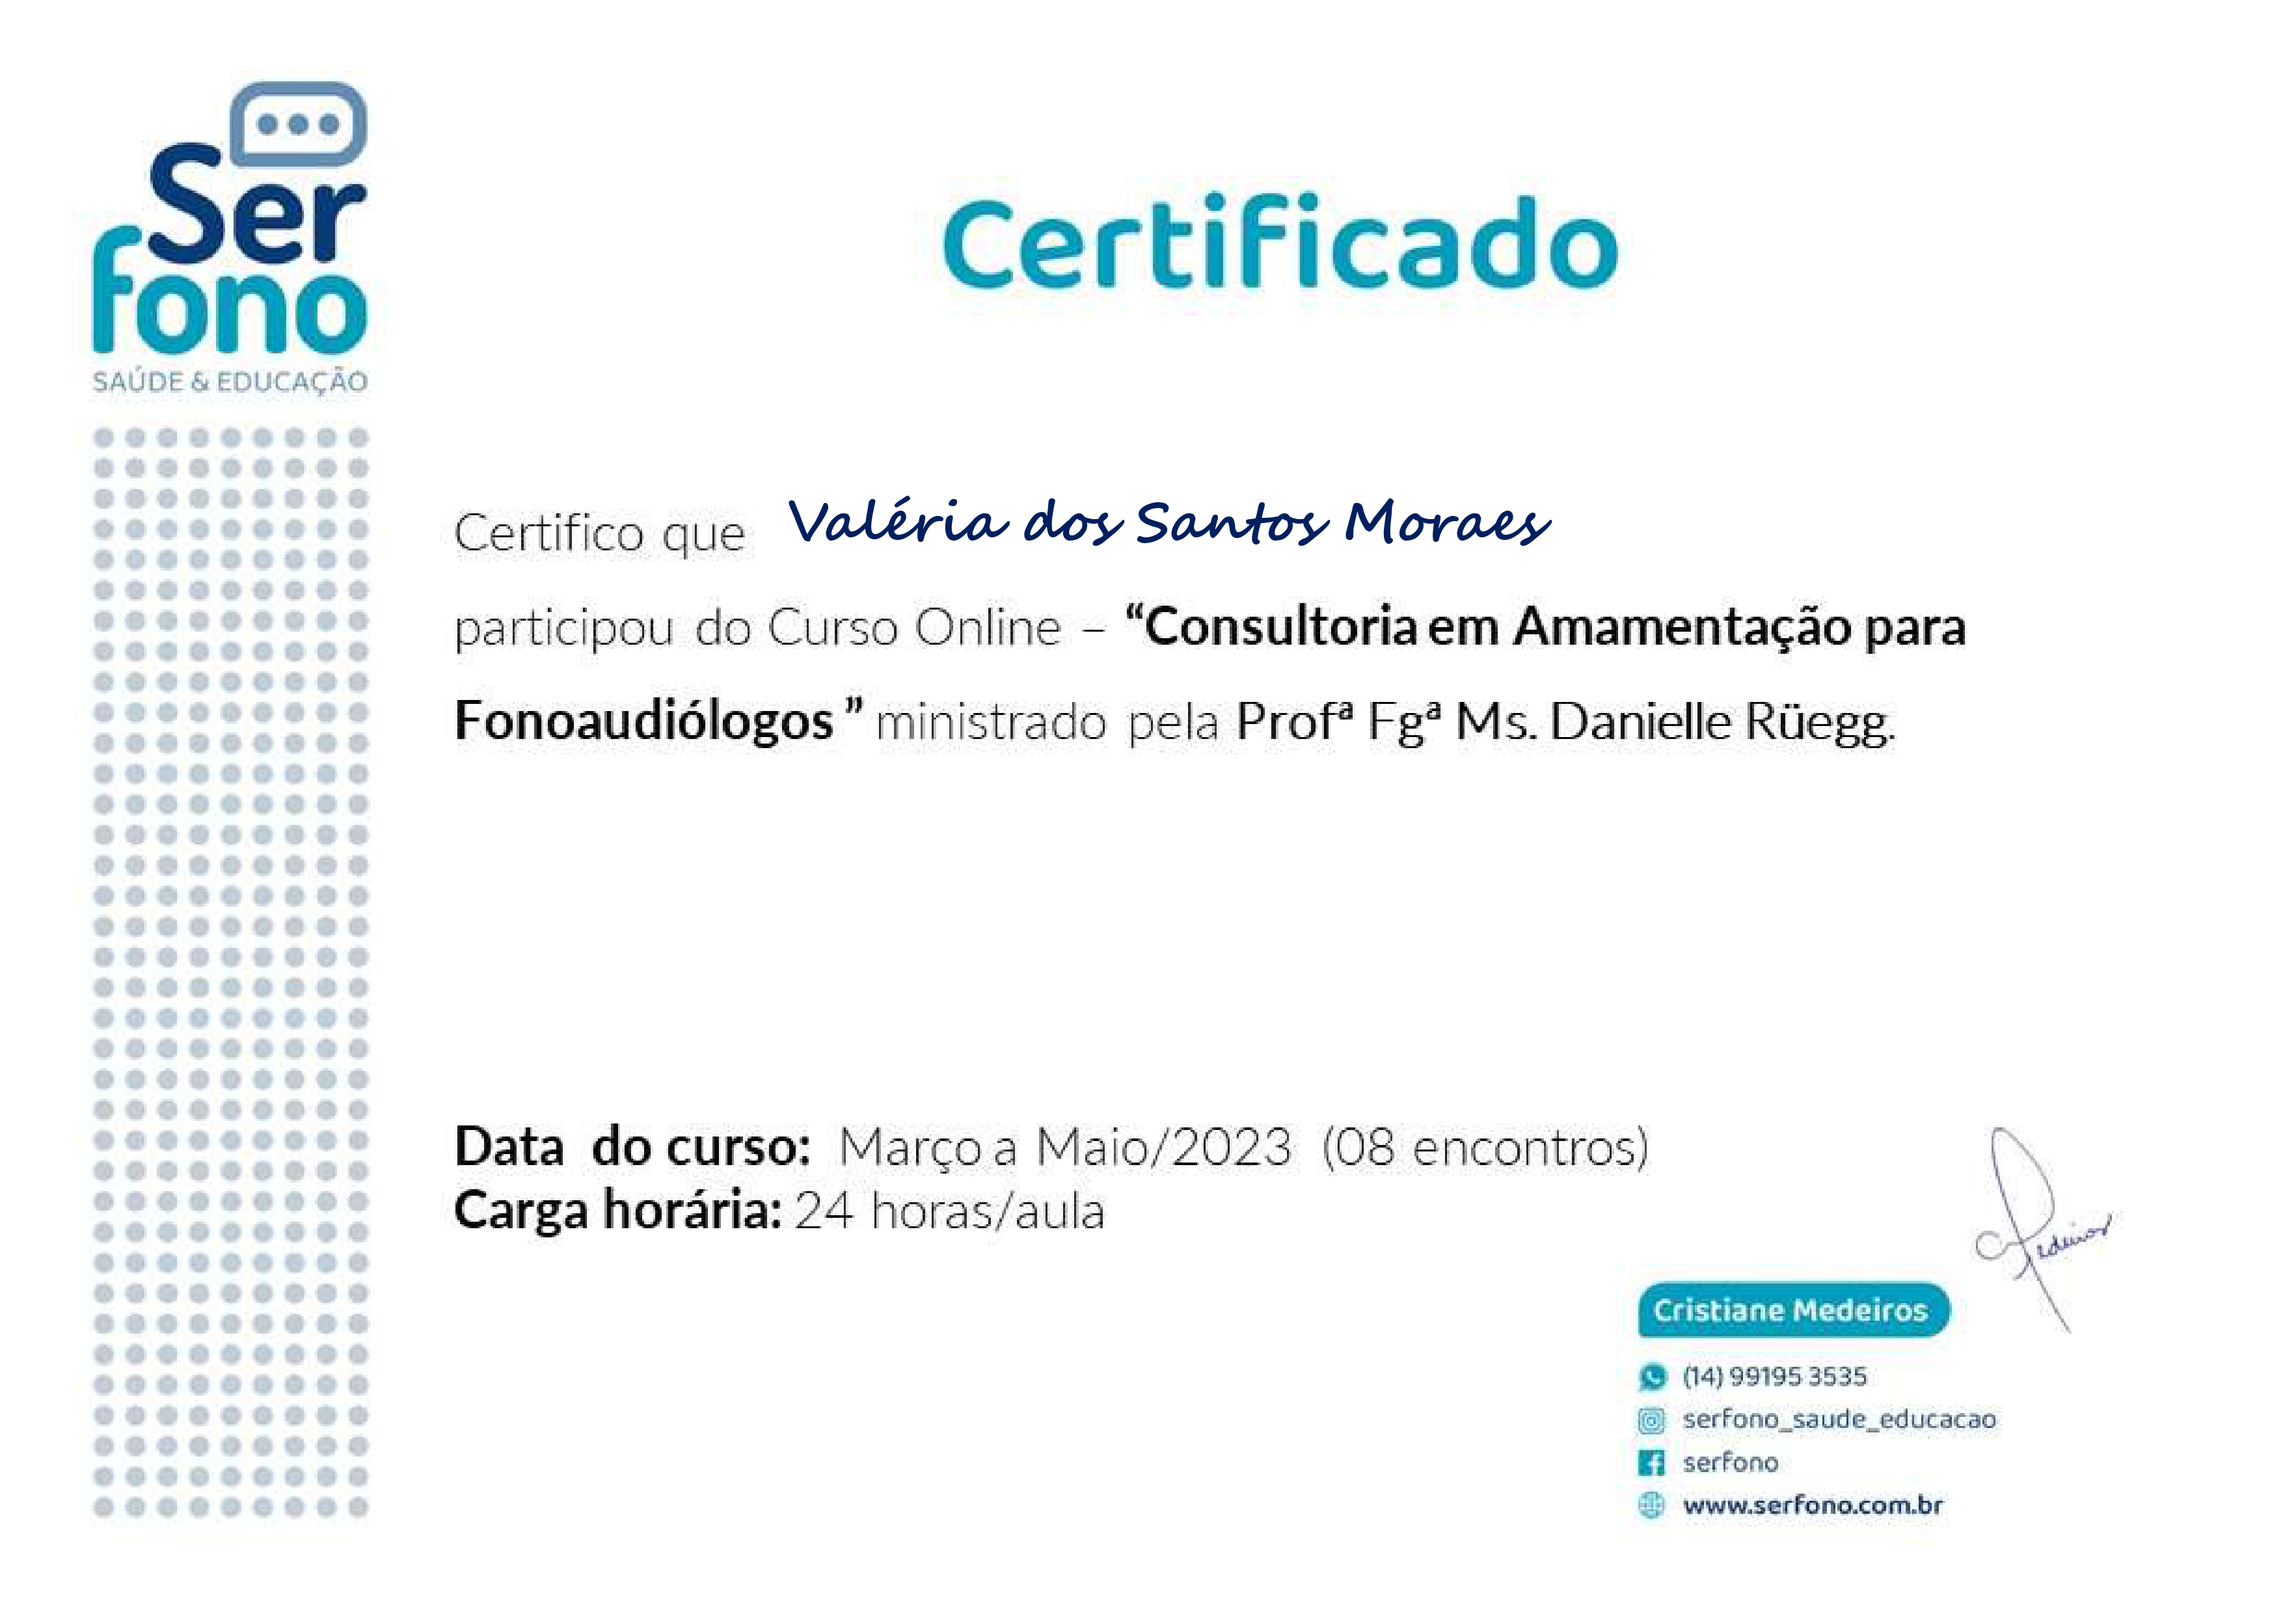
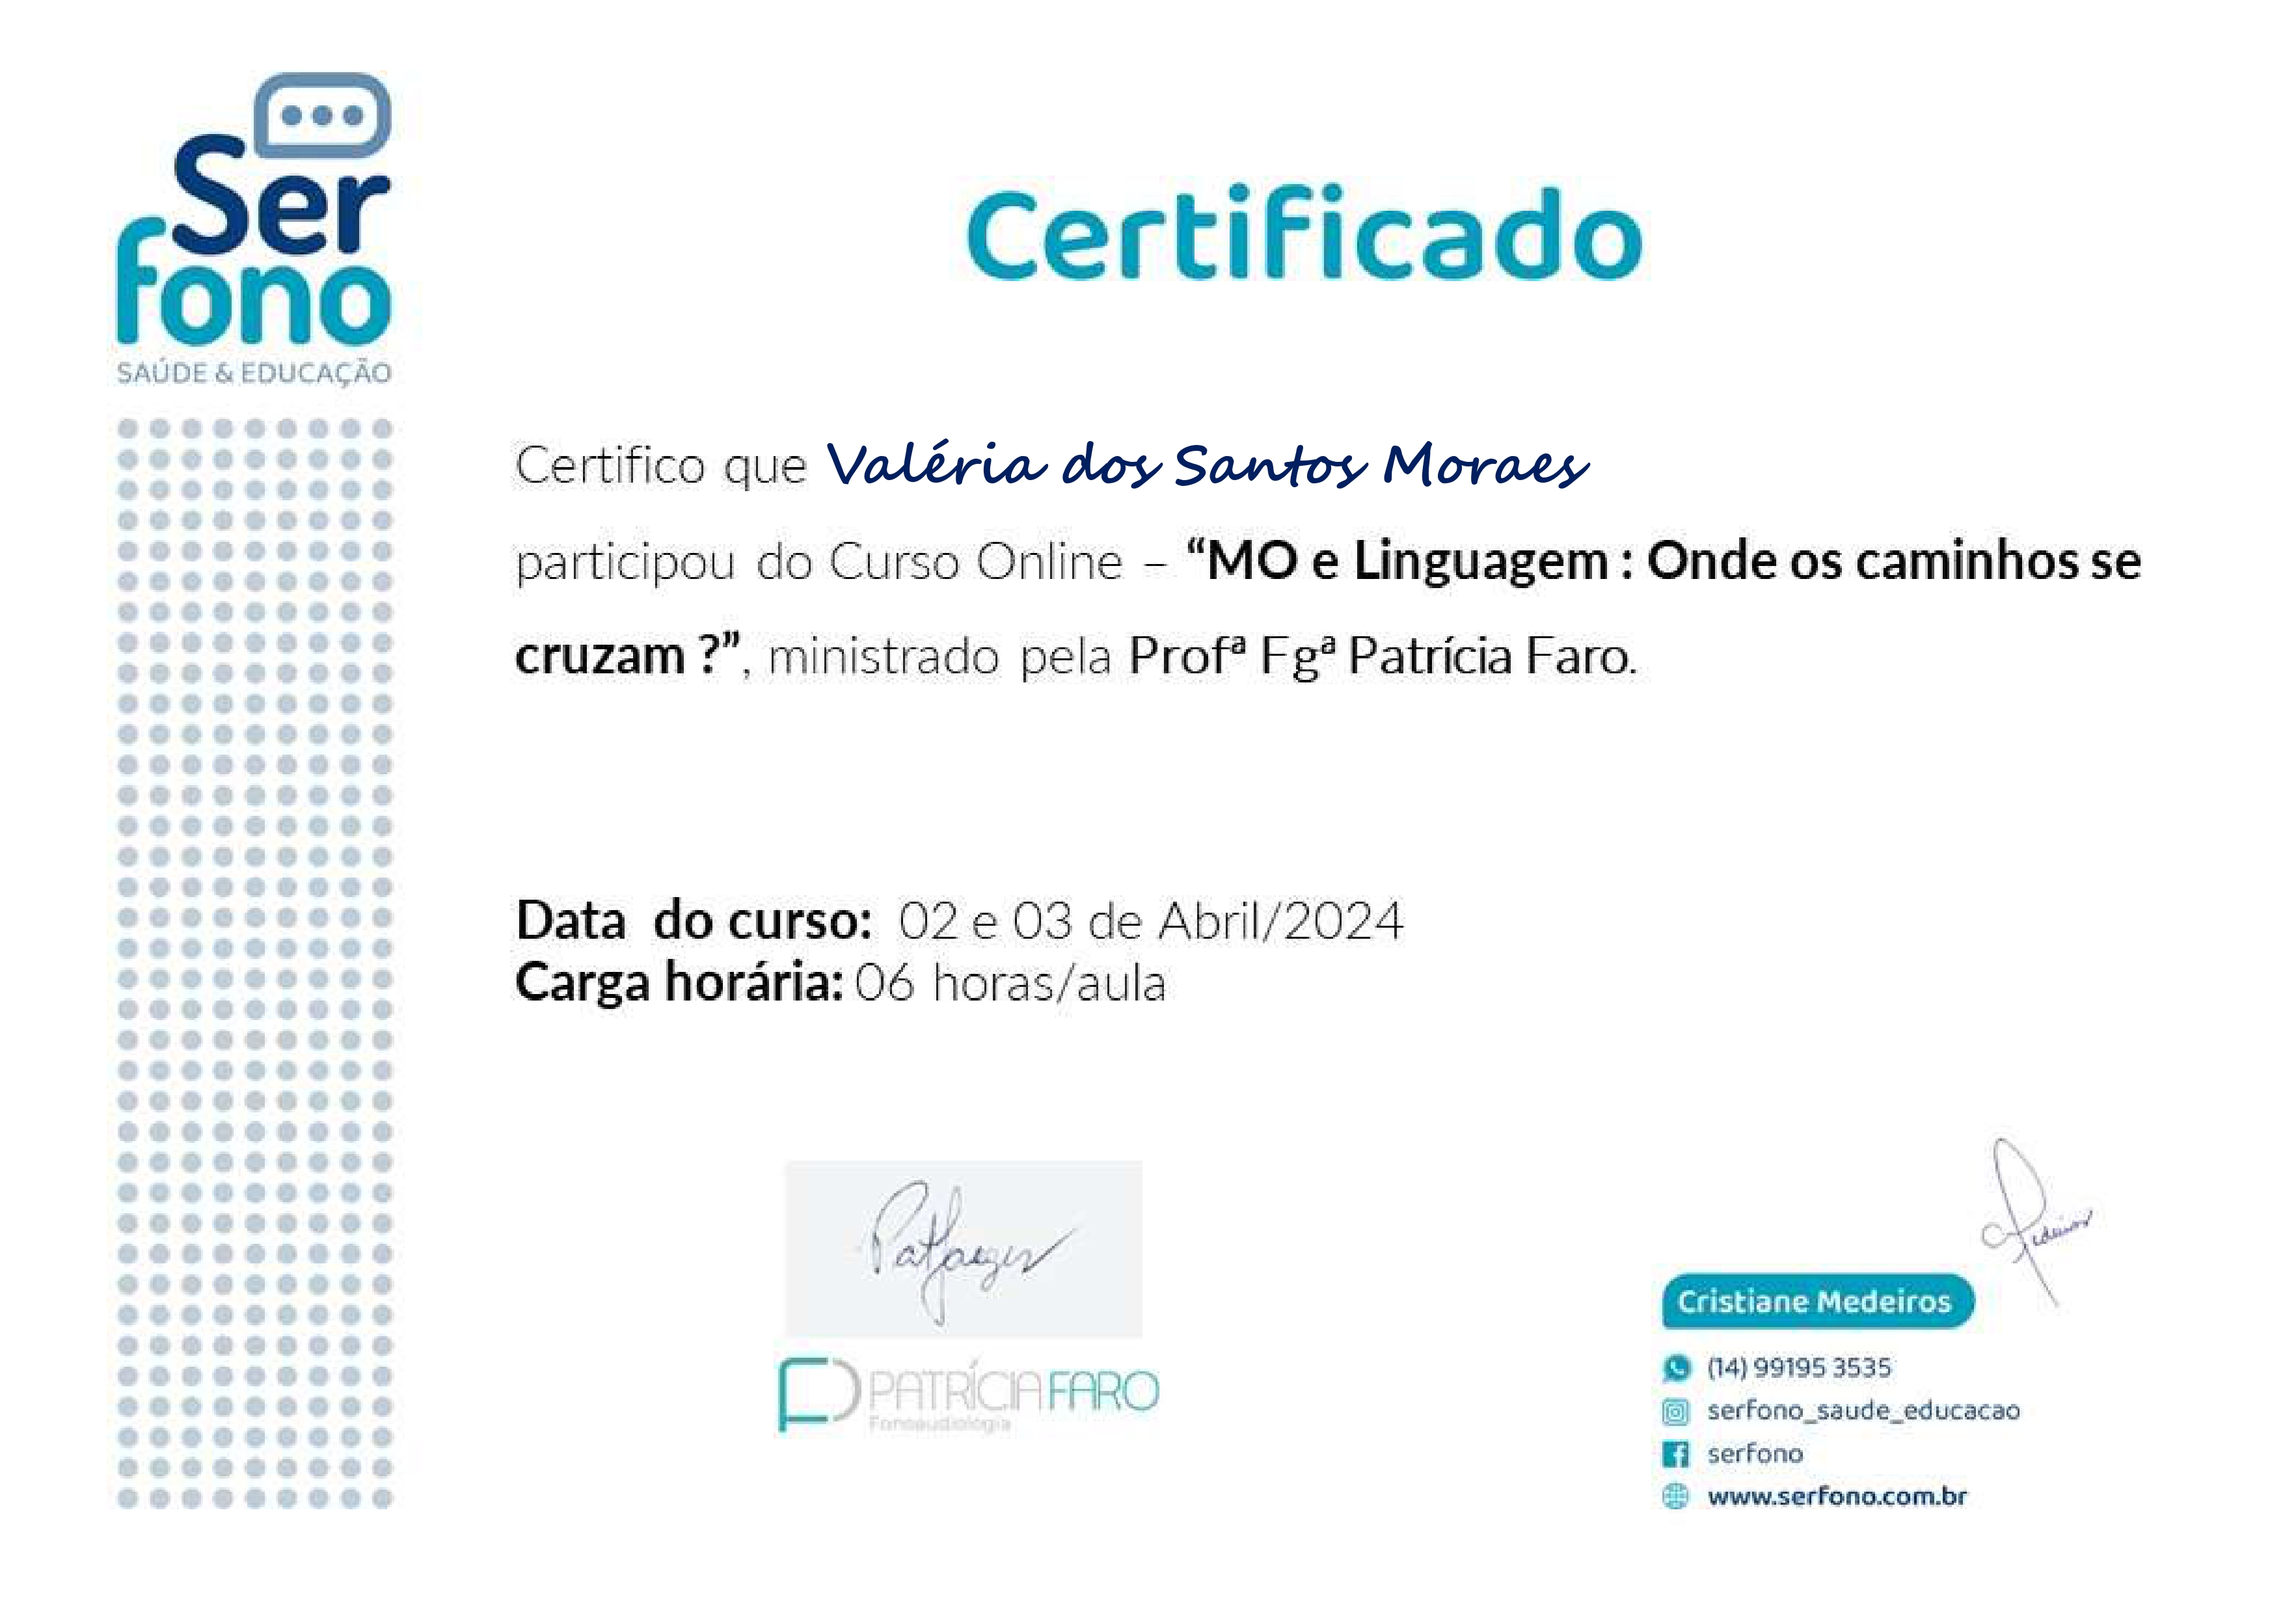
Updates

diff --git a/assets/index-Bw5SoSfb.js b/assets/index-Bw5SoSfb.js
@@ -131,7 +131,7 @@ Error generating stack: `+i.message+`
   font-weight: 500;
   line-height: 24px;
   margin-top: 2px;
-`,X1="/colodefono/assets/avatarFono-ChwRs90m.jpg",Z1=()=>O.jsxs("div",{style:{flex:1,textAlign:"center"},children:[O.jsx(K1,{children:O.jsx(G1,{src:X1})}),O.jsx(Y1,{children:"@colodefono"})]}),qa=()=>O.jsxs(j1,{children:[O.jsx(Z1,{}),O.jsx(z1,{}),O.jsx(Q1,{})]}),J1=Q.div`
+`,X1="/assets/avatarFono-ChwRs90m.jpg",Z1=()=>O.jsxs("div",{style:{flex:1,textAlign:"center"},children:[O.jsx(K1,{children:O.jsx(G1,{src:X1})}),O.jsx(Y1,{children:"@colodefono"})]}),qa=()=>O.jsxs(j1,{children:[O.jsx(Z1,{}),O.jsx(z1,{}),O.jsx(Q1,{})]}),J1=Q.div`
 	display: none;
 	align-items: center;
 	padding: 0px 10px;
@@ -289,4 +289,4 @@ Error generating stack: `+i.message+`
   top: 10px;
   right: 10px;
   cursor: pointer;
-`,mv=({visible:e,onClose:t,children:n})=>O.jsx(dv,{visible:e,onClick:t,children:O.jsxs(pv,{onClick:r=>r.stopPropagation(),children:[O.jsx(hv,{onClick:t,children:"X"}),n]})}),hl={"Bacharelado em Fonoaudiologia":{favorite:!0,imagePaths:["/assets/certificates/2015-12-12/001/frente.jpg","/assets/certificates/2015-12-12/001/verso.jpg"]},"Especialização em Adiologia Clínica e Ocupacional":{favorite:!0,imagePaths:["/assets/certificates/2017-12-16/001/frente.jpg","/assets/certificates/2017-12-16/001/verso.jpg"]},"Aprimoramento em Disfagia":{favorite:!1,imagePaths:["/assets/certificates/2018-11-24/001/frente.jpg","/assets/certificates/2018-11-24/001/verso.jpg"]},"Intervenção na Disfagia de Pacientes Adultos Pós-AVC":{favorite:!1,imagePaths:["/assets/certificates/2020-03-14/001/frente.jpg"]},"Formação Clínica em Disfagia: do Hospital ao Home Care":{favorite:!1,imagePaths:["/assets/certificates/2020-08-17/001/frente.jpg","/assets/certificates/2020-08-17/001/verso.jpg"]},"Atuação Fonoaudiológica em Pacientes Adultos com Disfagia Neurogênica":{favorite:!1,imagePaths:["/assets/certificates/2021-08-15/001/frente.jpg","/assets/certificates/2021-08-15/001/verso.jpg"]},"Atuação Fonoaudiológica em Disfagia Mecânica e Alterações Craniofaciais Oromiofuncionais":{favorite:!1,imagePaths:["/assets/certificates/2021-10-28/001/frente.jpg","/assets/certificates/2021-10-28/001/verso.jpg"]},"Atuação Fonoaudiológica Neotal e Pediátrica":{favorite:!1,imagePaths:["/assets/certificates/2022-02-18/001/frente.jpg","/assets/certificates/2022-02-18/001/verso.jpg"]},"Diagnóstico por Imagem para Avaliação da Deglutição":{favorite:!1,imagePaths:["/assets/certificates/2022-04-14/001/frente.jpg","/assets/certificates/2022-04-14/001/verso.jpg"]},"Curso Online Aba e Autismo":{favorite:!1,imagePaths:["/assets/certificates/2023-01-31/001/frente.jpg","/assets/certificates/2023-01-31/001/verso.jpg"]},"Teste da Linguinha e Aprofundamento em Frênulo Lingual":{favorite:!1,imagePaths:["/assets/certificates/2023-03-30/001/frente.jpg"]},"Seletividade Alimentar em Crianças e Adolecentes":{favorite:!1,imagePaths:["/assets/certificates/2023-04-05/001/frente.jpg"]},"Consultoria em Amamentação para Fonoaudiólogos":{favorite:!1,imagePaths:["/assets/certificates/2023-05-01/001/frente.jpg"]},"MO e Linguagem: Onde os Caminhos se Cruzam?":{favorite:!1,imagePaths:["/assets/certificates/2024-04-03/001/frente.jpg"]}},vv=()=>{const t=(f=>f==null?void 0:f.replace(/\/+$/,""))("/colodefono/"),{id:n}=i1(),r=n||1,l=Object.keys(hl),i=l.length;let o=Number(r);(isNaN(o)||o<1||o>i||!o)&&(o=1);const u=l.filter(f=>hl[f].favorite).reverse(),s=l.filter(f=>!hl[f].favorite).reverse(),a=[...u,...s],h=o-1,p=a[h],m=hl[p],[g,v]=_.useState(!1),[w,E]=_.useState(null),d=f=>{E(f),v(!0)},c=()=>{v(!1),E(null)};return O.jsxs(av,{children:[O.jsx(ec,{disabled:g,lengthArray:i,label:p,organizedCertificateKeys:a}),O.jsxs(cv,{children:[O.jsx(ec,{disabled:g,position:Jd.TOP,lengthArray:i,label:p,organizedCertificateKeys:a}),O.jsx(fv,{children:m.imagePaths.map((f,y)=>O.jsx("div",{children:O.jsx("img",{src:`${t}${f}`,alt:`Certificado ${y}`,onClick:()=>d(f),style:{cursor:"pointer"}})},y))})]}),g&&O.jsx(mv,{visible:g,onClose:c,children:w&&O.jsx("img",{src:`${t}${w}`,alt:"Imagem do certificado",style:{maxWidth:"100%"}})})]})};function gv(){return O.jsx(Nm,{theme:jm,children:O.jsx(P1,{basename:"/colodefono/",children:O.jsxs(w1,{children:[O.jsx(zl,{path:"/",element:O.jsx(qa,{})}),O.jsx(zl,{path:"/certificates/:id",element:O.jsx(vv,{})}),O.jsx(zl,{path:"*",element:O.jsx(qa,{})})]})})})}mo.createRoot(document.getElementById("root")).render(O.jsx(pe.StrictMode,{children:O.jsx(gv,{})}));
+`,mv=({visible:e,onClose:t,children:n})=>O.jsx(dv,{visible:e,onClick:t,children:O.jsxs(pv,{onClick:r=>r.stopPropagation(),children:[O.jsx(hv,{onClick:t,children:"X"}),n]})}),hl={"Bacharelado em Fonoaudiologia":{favorite:!0,imagePaths:["/assets/certificates/2015-12-12/001/frente.jpg","/assets/certificates/2015-12-12/001/verso.jpg"]},"Especialização em Adiologia Clínica e Ocupacional":{favorite:!0,imagePaths:["/assets/certificates/2017-12-16/001/frente.jpg","/assets/certificates/2017-12-16/001/verso.jpg"]},"Aprimoramento em Disfagia":{favorite:!1,imagePaths:["/assets/certificates/2018-11-24/001/frente.jpg","/assets/certificates/2018-11-24/001/verso.jpg"]},"Intervenção na Disfagia de Pacientes Adultos Pós-AVC":{favorite:!1,imagePaths:["/assets/certificates/2020-03-14/001/frente.jpg"]},"Formação Clínica em Disfagia: do Hospital ao Home Care":{favorite:!1,imagePaths:["/assets/certificates/2020-08-17/001/frente.jpg","/assets/certificates/2020-08-17/001/verso.jpg"]},"Atuação Fonoaudiológica em Pacientes Adultos com Disfagia Neurogênica":{favorite:!1,imagePaths:["/assets/certificates/2021-08-15/001/frente.jpg","/assets/certificates/2021-08-15/001/verso.jpg"]},"Atuação Fonoaudiológica em Disfagia Mecânica e Alterações Craniofaciais Oromiofuncionais":{favorite:!1,imagePaths:["/assets/certificates/2021-10-28/001/frente.jpg","/assets/certificates/2021-10-28/001/verso.jpg"]},"Atuação Fonoaudiológica Neotal e Pediátrica":{favorite:!1,imagePaths:["/assets/certificates/2022-02-18/001/frente.jpg","/assets/certificates/2022-02-18/001/verso.jpg"]},"Diagnóstico por Imagem para Avaliação da Deglutição":{favorite:!1,imagePaths:["/assets/certificates/2022-04-14/001/frente.jpg","/assets/certificates/2022-04-14/001/verso.jpg"]},"Curso Online Aba e Autismo":{favorite:!1,imagePaths:["/assets/certificates/2023-01-31/001/frente.jpg","/assets/certificates/2023-01-31/001/verso.jpg"]},"Teste da Linguinha e Aprofundamento em Frênulo Lingual":{favorite:!1,imagePaths:["/assets/certificates/2023-03-30/001/frente.jpg"]},"Seletividade Alimentar em Crianças e Adolecentes":{favorite:!1,imagePaths:["/assets/certificates/2023-04-05/001/frente.jpg"]},"Consultoria em Amamentação para Fonoaudiólogos":{favorite:!1,imagePaths:["/assets/certificates/2023-05-01/001/frente.jpg"]},"MO e Linguagem: Onde os Caminhos se Cruzam?":{favorite:!1,imagePaths:["/assets/certificates/2024-04-03/001/frente.jpg"]}},vv=()=>{const t=(f=>f==null?void 0:f.replace(/\/+$/,""))("/"),{id:n}=i1(),r=n||1,l=Object.keys(hl),i=l.length;let o=Number(r);(isNaN(o)||o<1||o>i||!o)&&(o=1);const u=l.filter(f=>hl[f].favorite).reverse(),s=l.filter(f=>!hl[f].favorite).reverse(),a=[...u,...s],h=o-1,p=a[h],m=hl[p],[g,v]=_.useState(!1),[w,E]=_.useState(null),d=f=>{E(f),v(!0)},c=()=>{v(!1),E(null)};return O.jsxs(av,{children:[O.jsx(ec,{disabled:g,lengthArray:i,label:p,organizedCertificateKeys:a}),O.jsxs(cv,{children:[O.jsx(ec,{disabled:g,position:Jd.TOP,lengthArray:i,label:p,organizedCertificateKeys:a}),O.jsx(fv,{children:m.imagePaths.map((f,y)=>O.jsx("div",{children:O.jsx("img",{src:`${t}${f}`,alt:`Certificado ${y}`,onClick:()=>d(f),style:{cursor:"pointer"}})},y))})]}),g&&O.jsx(mv,{visible:g,onClose:c,children:w&&O.jsx("img",{src:`${t}${w}`,alt:"Imagem do certificado",style:{maxWidth:"100%"}})})]})};function gv(){return O.jsx(Nm,{theme:jm,children:O.jsx(P1,{basename:"/",children:O.jsxs(w1,{children:[O.jsx(zl,{path:"/",element:O.jsx(qa,{})}),O.jsx(zl,{path:"/certificates/:id",element:O.jsx(vv,{})}),O.jsx(zl,{path:"*",element:O.jsx(qa,{})})]})})})}mo.createRoot(document.getElementById("root")).render(O.jsx(pe.StrictMode,{children:O.jsx(gv,{})}));

diff --git a/index.html b/index.html
@@ -2,11 +2,11 @@
 <html lang="en">
   <head>
     <meta charset="UTF-8" />
-    <link rel="icon" type="image/svg+xml" href="/colodefono/assets/ear-C5dzuJLq.svg" />
+    <link rel="icon" type="image/svg+xml" href="/assets/ear-C5dzuJLq.svg" />
     <meta name="viewport" content="width=device-width, initial-scale=1.0" />
     <title>colodefono</title>
-    <script type="module" crossorigin src="/colodefono/assets/index-BROmbvWU.js"></script>
-    <link rel="stylesheet" crossorigin href="/colodefono/assets/index-D2SLZ4r0.css">
+    <script type="module" crossorigin src="/assets/index-Bw5SoSfb.js"></script>
+    <link rel="stylesheet" crossorigin href="/assets/index-D2SLZ4r0.css">
   </head>
   <body>
     <div id="root"></div>
